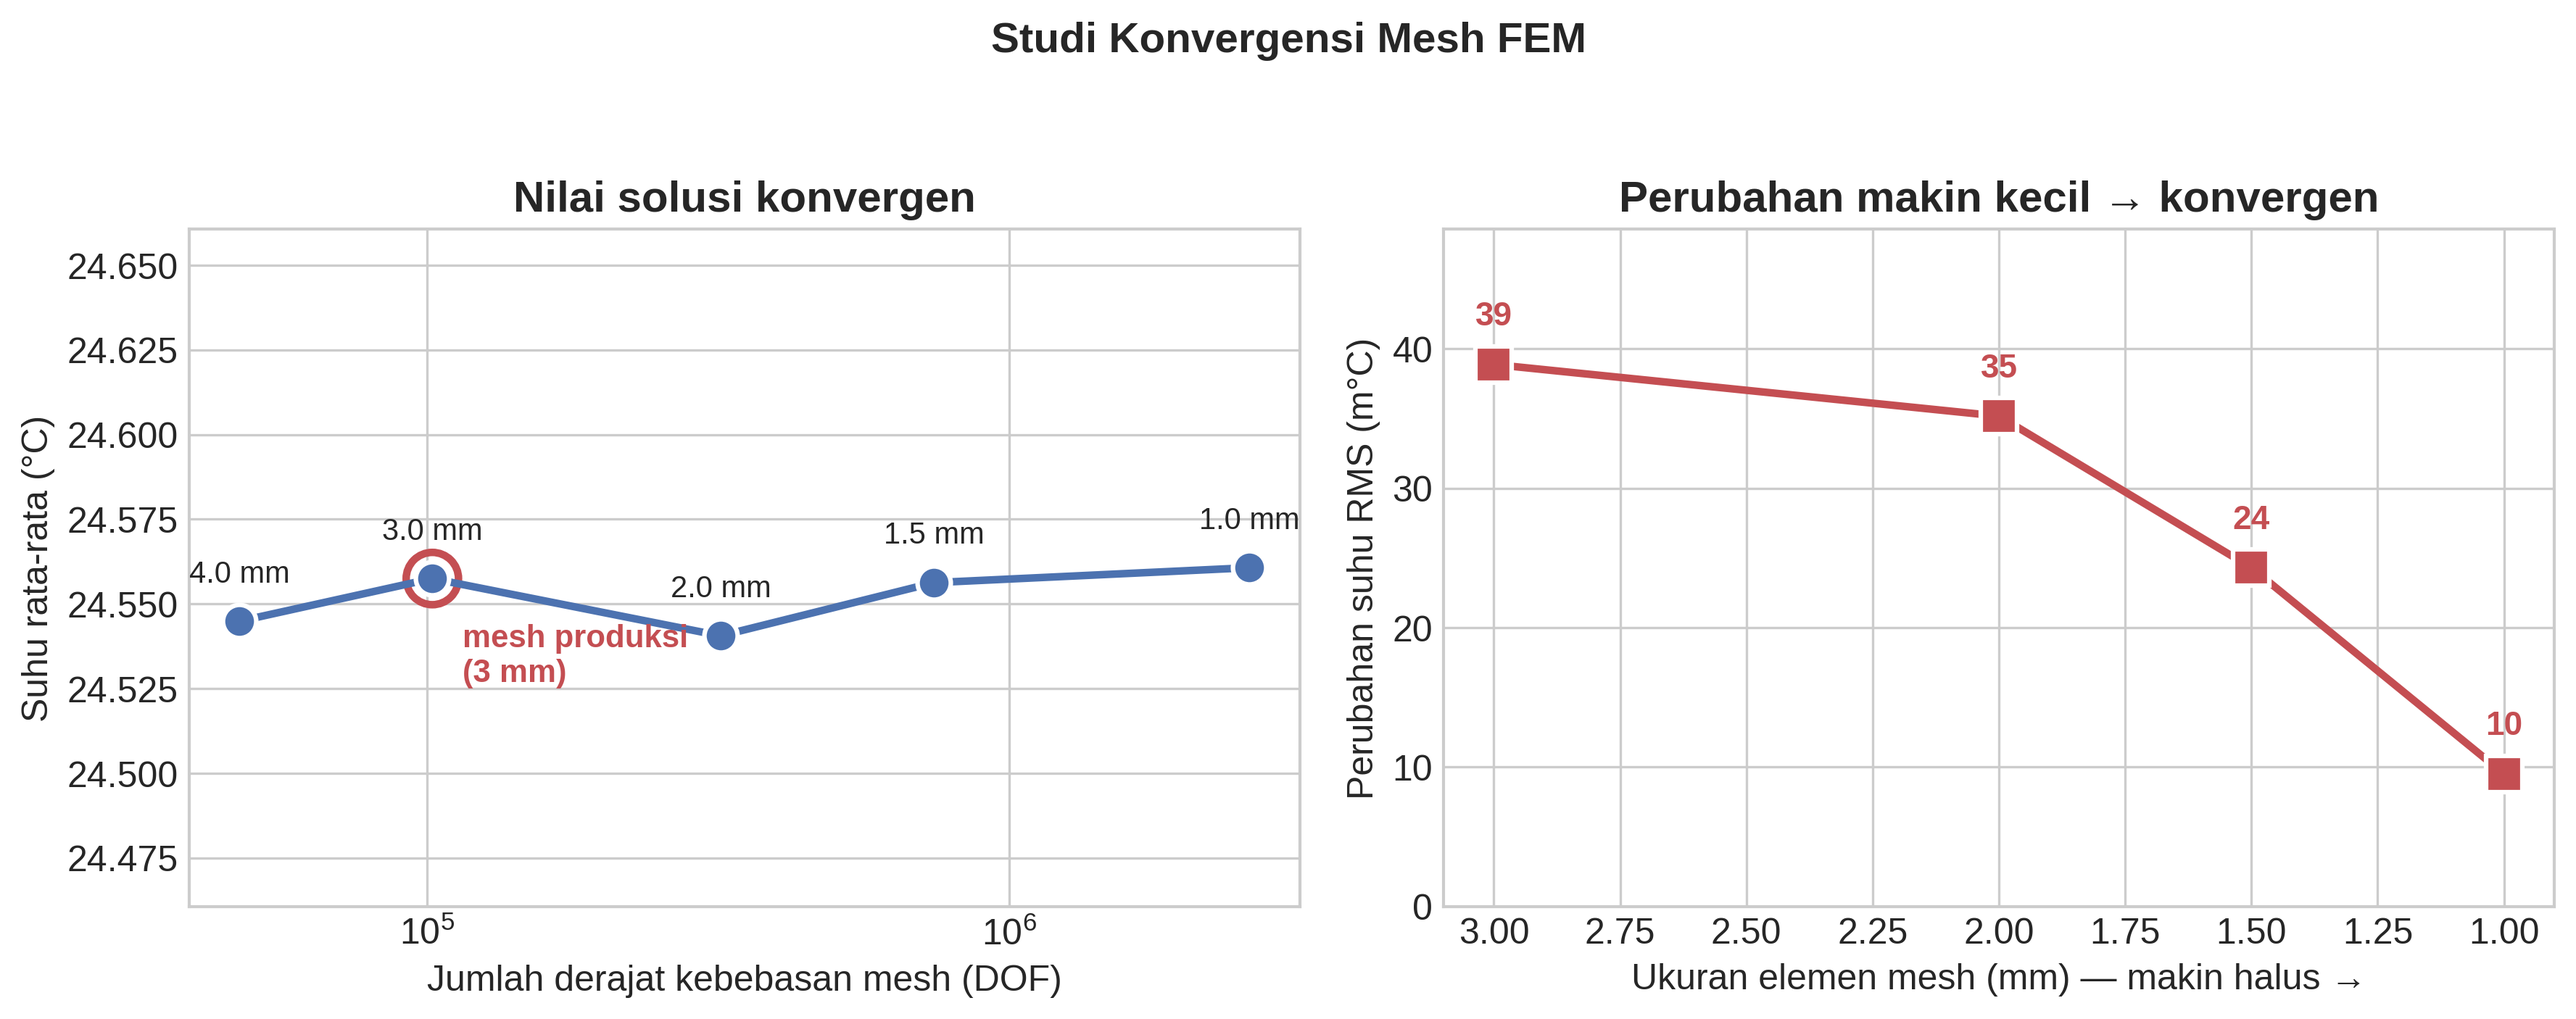
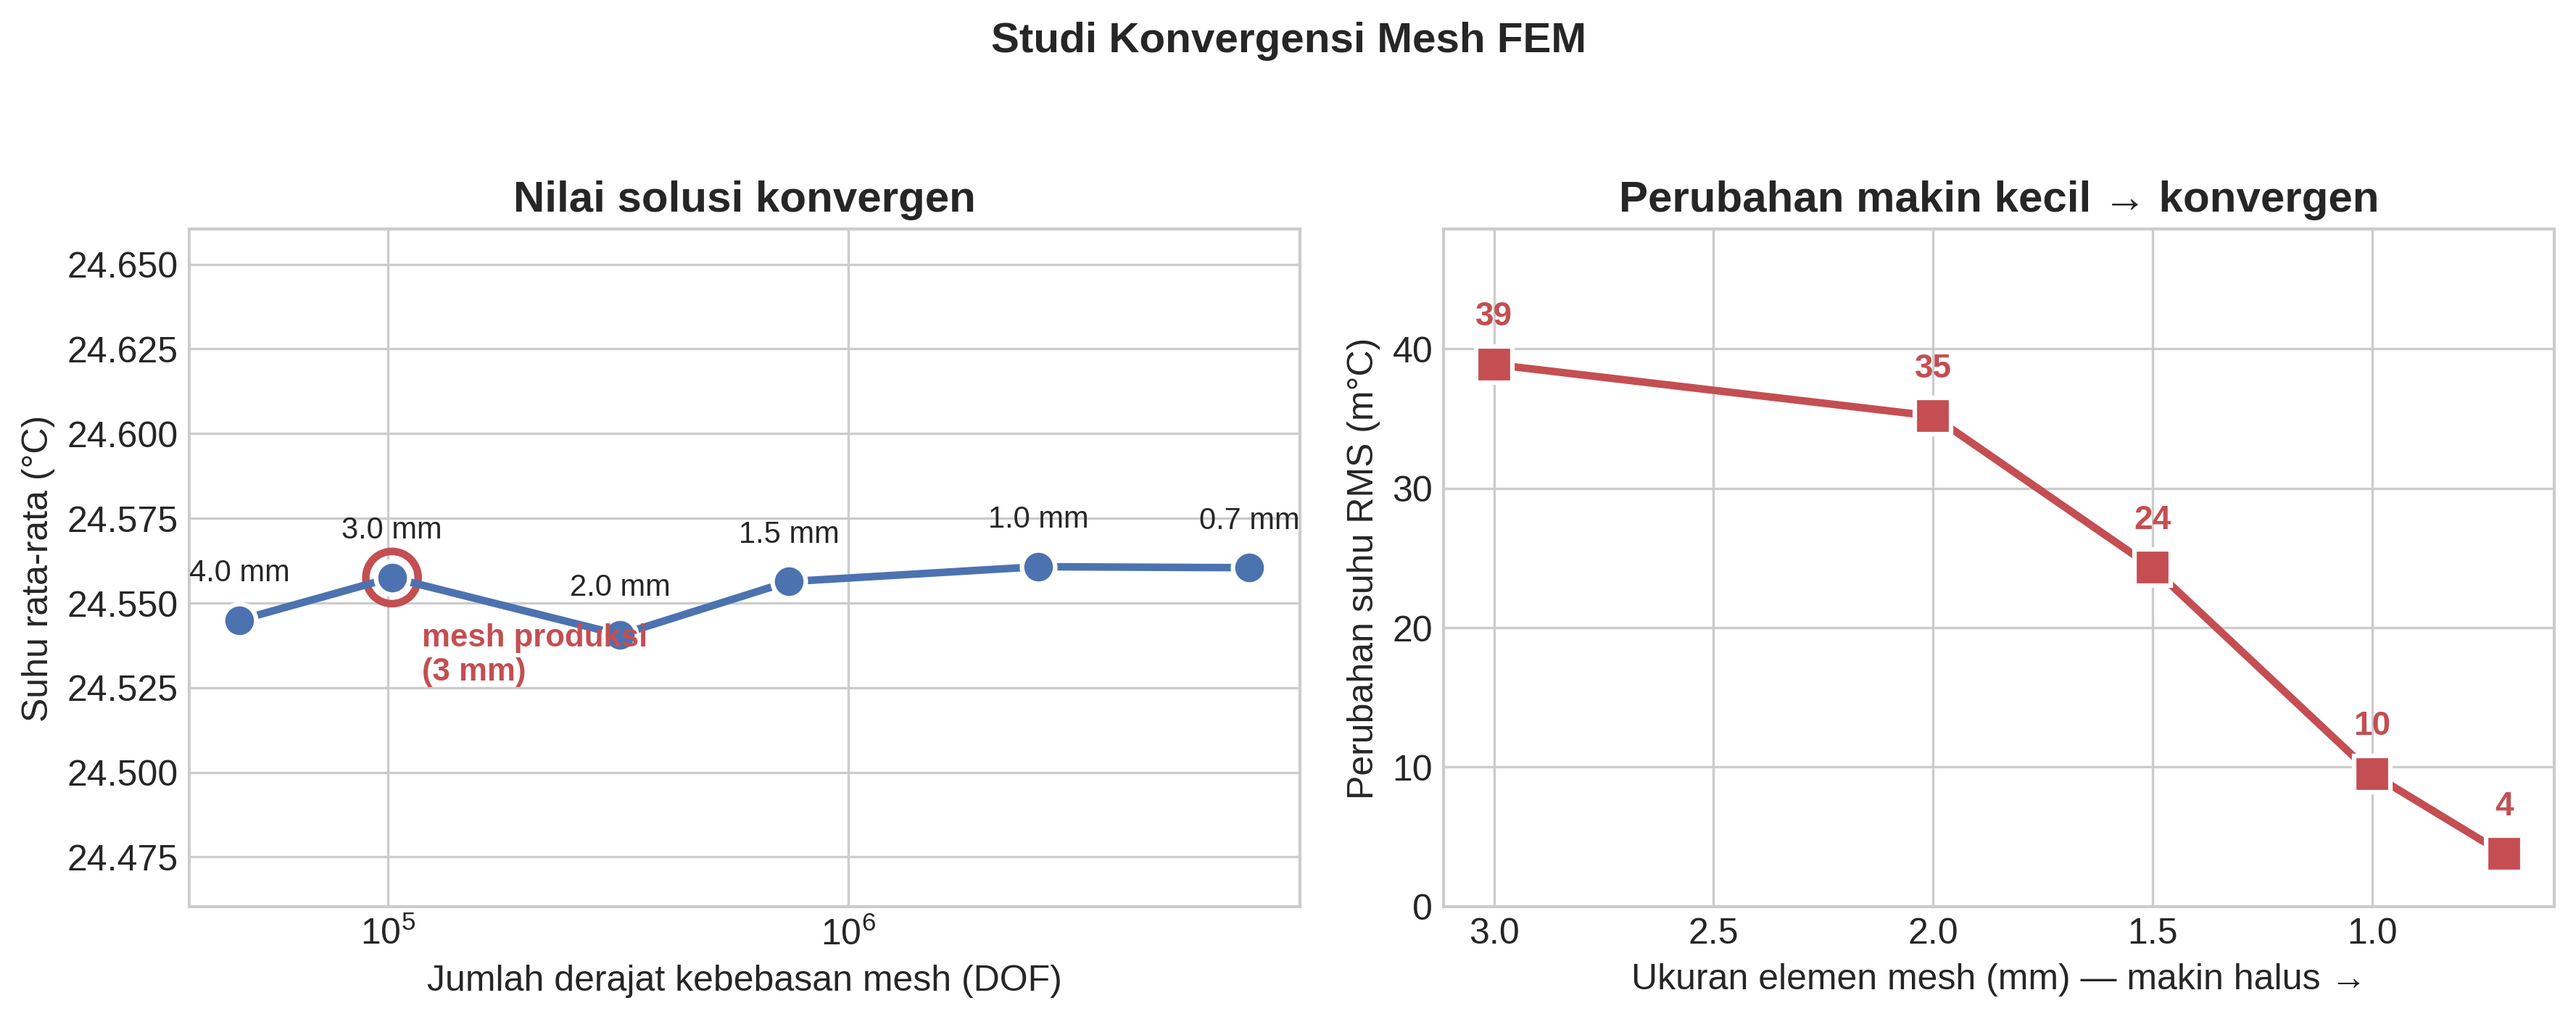
new docs and mesh convergence plot

diff --git a/Docs/Stage4_InverseBioheat.md b/Docs/Stage4_InverseBioheat.md
@@ -324,6 +324,29 @@ The successive change falls from 38.9 to 9.5 m°C; at matched refinement ratio (
 
 **Why this matters.** Because the solver converges optimally *and* the skin signal is mesh-converged at 3 mm, the ~5 °C real-data mismatch cannot be a numerical artefact — it is attributable to the **boundary-condition physics** (the homogeneous-tissue assumption and the BC constants of §2.5), exactly as expected. For context, our 3 mm mesh has **587 k tetrahedral elements in 3D**, versus Jahani et al.'s 10 448 triangular elements in 2D (~56× more, one dimension higher), so the model is far better resolved than the published comparison.
 
+### 6.6 Mesh refinement is *not* boundary-condition refinement (a common confusion)
+
+A recurring question is whether a finer mesh would fix the model-mismatch or the radius rail by giving "better boundary conditions." It would not — **the mesh and the boundary conditions are different layers of the problem**, and conflating them is a category error worth stating explicitly.
+
+| | What it is | Lives in | Changed by |
+|---|---|---|---|
+| **Boundary condition** | the physics *rule* at the domain edge — chest wall $T=37$ °C (Dirichlet), skin $-k\,\partial_n T = h(T-T_\infty)$ (Robin), with $h=10$, $T_\infty=20$ °C | the **problem definition** | choosing different *values/types* |
+| **Mesh** | how finely the domain is discretised into tetrahedra | the **solution method** | refining element size |
+
+Refining the mesh makes the numerical answer converge to the **true solution of the *same* boundary-value problem** — same BCs. It does **not** move the boundary conditions toward reality. (Analogy: the BC is the *rules of the game*; the mesh is the *screen resolution* you watch it on — a sharper screen shows the same game more clearly, it does not change the rules.)
+
+This separates the two distinct error sources:
+
+- **Numerical error** = gap between the discrete (meshed) solution and the exact PDE solution. **Fixed by finer mesh.** Already < 0.01 °C at 3 mm (§6.5).
+- **Model error** = gap between the PDE problem (its BC constants, homogeneous-tissue assumption) and physical reality. **Fixed only by better BCs/physics — never by mesh.** This is the ~5 °C mismatch (§2.4).
+
+Consequences, stated plainly:
+- The **~5 °C model-mismatch** is model error → reducible only by changing the BCs/physics (per-patient $T_\infty$ and body temperature, layered tissue), *not* by refining the mesh.
+- The **radius rail** is the depth–size identifiability degeneracy (§2.5, §7.0) → fixed only by changing the *cost function* (e.g. adding a shape feature), *not* by mesh or BC.
+- The one place mesh and BC interact is **geometric resolution**: the mesh must be fine enough to follow the skin surface so the Robin BC is applied on an accurate boundary. The convergence study shows 3 mm already resolves the geometry (the solution stopped changing), so further refinement adds nothing to how well the BC is represented.
+
+The §6.5 convergence study used a single mid-size source ($r=15$ mm); a separate targeted check (`conv_radius_test.py` → `/tmp/radius_conv.txt`) re-solves the forward problem at the *rail* radii — small ($r=5$ mm) and large ($r=40$ mm) — across the 4.0→0.7 mm meshes to confirm both regimes are mesh-converged (a small source is the only case where coarse-mesh under-resolution is plausible). Preliminary probe-mean temperatures for $r=5$ mm stay within the same ~0.02 °C band as $r=15$ mm; the formal RMS-vs-finest figures are recorded in that file once the run completes. The expectation — to be confirmed by those numbers, not asserted — is that neither rail is a mesh artefact, since the rail is a property of the cost landscape (the depth–size degeneracy), not the discretisation.
+
 ---
 
 ## 7. Real-Patient Application and Limitations
